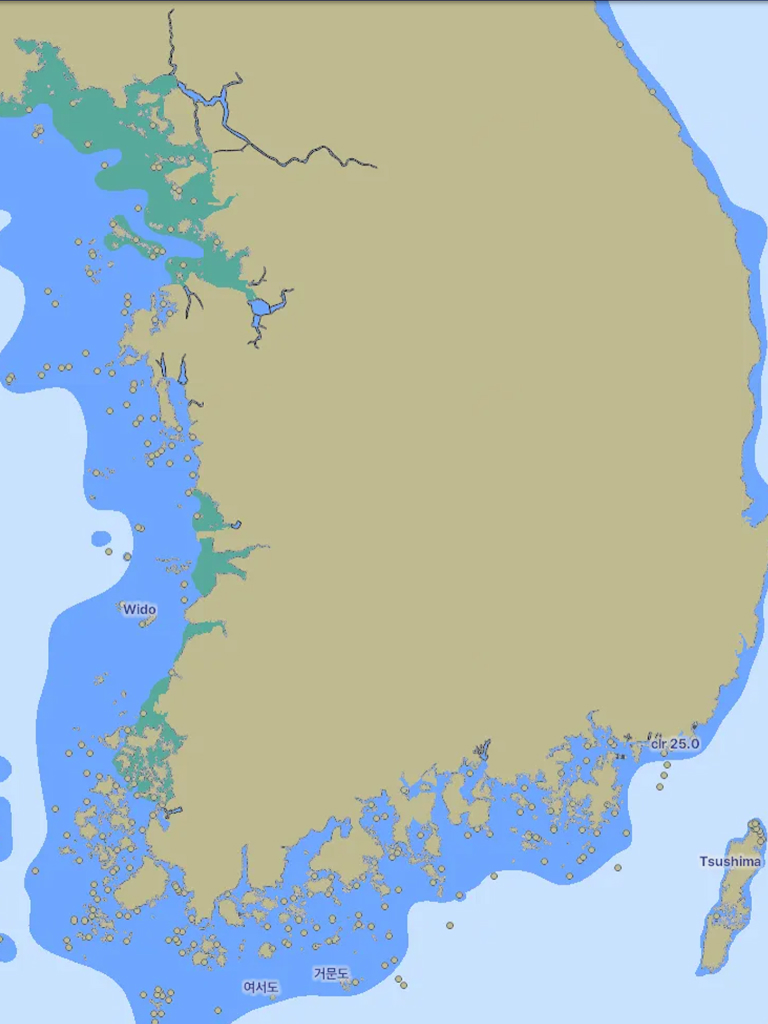
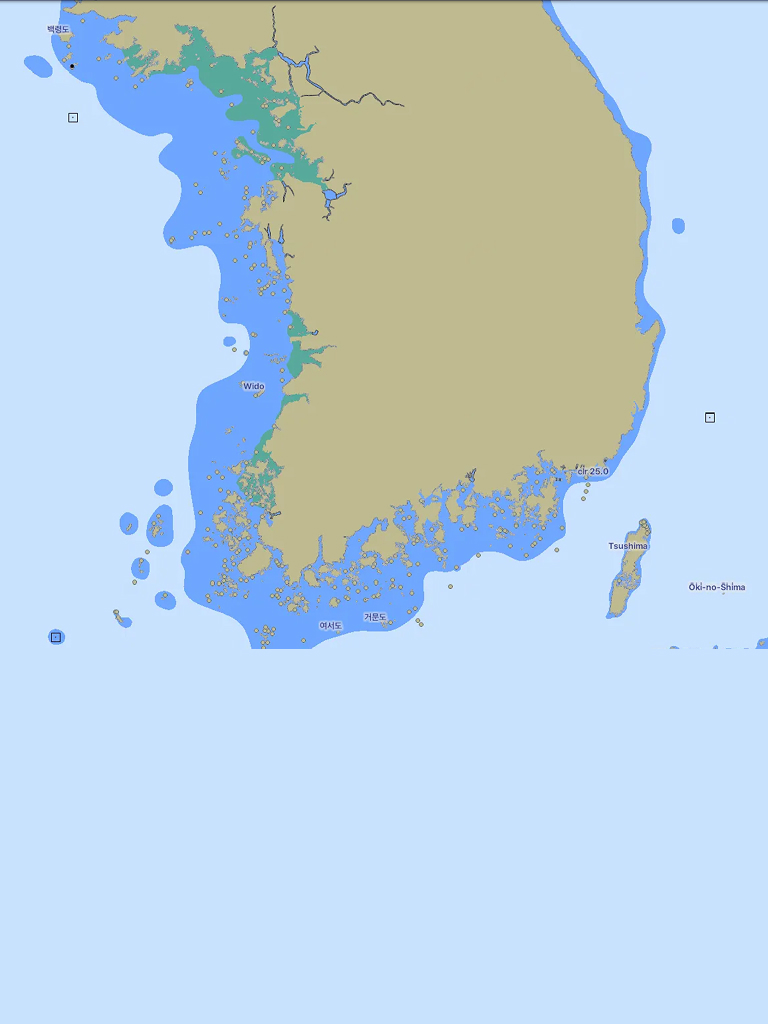
10/23

diff --git a/src/pages/InterPage1440.tsx b/src/pages/InterPage1440.tsx
@@ -31,7 +31,7 @@ const InterPage1440: React.FC<InterPage1440Props> = ({
   const [windowWidth, setWindowWidth] = useState(window.innerWidth);
   const [isSlideMenuOpen, setIsSlideMenuOpen] = useState(false);
   const [mapIcons, setMapIcons] = useState<{ top: string; left: string; label?: string }[]>([]);
-  const [mapImage, setMapImage] = useState('/mpc-react/assets/default-map.jpg');
+  const [mapImage, setMapImage] = useState('/mpc-react/assets/map_03.jpg');
   
 
 
@@ -105,7 +105,7 @@ const InterPage1440: React.FC<InterPage1440Props> = ({
           <RightTopMenu
           mapImage={mapImage}
           setMapImage={setMapImage}
-          defaultMap="/mpc-react/assets/default-map.jpg"
+          defaultMap="/mpc-react/assets/map_03.jpg"
           />
         </Container>
 
@@ -166,30 +166,9 @@ const InterPage1440: React.FC<InterPage1440Props> = ({
               )}
 
       </Navbar>
-      {/* 지도 영역 */}
-      <div className="map-container"
 
-        style={{
-          display: 'flex',
-          justifyContent: 'center',
-          alignItems: 'center', 
-          width: '100%',
-          height: '100vh',
-          overflow: 'hidden', 
-          
-        }}
-      >
-
-      <img
-      src={mapImage}
-      alt="map"
-      style={{
-        minWidth: '100%',
-        minHeight: '100%',
-        objectFit: 'cover',  
-        objectPosition: 'center',
-      }}
-  />
+      {/* 아이콘 레이어 */}
+      <div className="map-container">
         <MapWeatherIcon positions={mapIcons} mapImage={mapImage} />
       </div>
     </div>

diff --git a/src/pages/InterPage768.tsx b/src/pages/InterPage768.tsx
@@ -32,8 +32,8 @@ const InterPage768: React.FC<InterPage768Props> = ({
   const [isSlideMenuOpen, setIsSlideMenuOpen] = useState(false);
   const [windowWidth, setWindowWidth] = useState(window.innerWidth);
   const [mapIcons, setMapIcons] = useState<{ top: string; left: string; label?: string }[]>([]);
-  const [mapImage, setMapImage] = useState('/mpc-react/assets/default-map.jpg');
-  const defaultMap = '/mpc-react/assets/default-map.jpg';
+  const [mapImage, setMapImage] = useState('/mpc-react/assets/map_03.jpg');
+  const defaultMap = '/mpc-react/assets/map_03.jpg';
 
 
   useEffect(() => {
@@ -137,30 +137,11 @@ const InterPage768: React.FC<InterPage768Props> = ({
           />
           )}
 
-          {/* 지도 영역 */}
-          <div className="map-container"
-            style={{
-            display: 'flex',
-            justifyContent: 'center',
-            alignItems: 'center', 
-            width: '100%',
-            height: '100vh',
-            overflow: 'hidden',
-          }}
-          >
-
-          <img
-          src={mapImage}
-          alt="map"
-          style={{
-            minWidth: '100%',
-            minHeight: '100%',
-            objectFit: 'cover', 
-            objectPosition: 'center',
-          }}
-        />
-            <MapWeatherIcon positions={mapIcons} mapImage={mapImage} />
-          </div>
+         
+      {/* 아이콘 레이어 */}
+      <div className="map-container">
+        <MapWeatherIcon positions={mapIcons} mapImage={mapImage} />
+      </div>
     </div>
   );
 };

diff --git a/src/Styles/common_Main.scss b/src/Styles/common_Main.scss
@@ -213,6 +213,7 @@ body {
   display: flex;
   flex-direction: column;
   align-items: center;
+  z-index: 10;
 
   .location-icon {
     position: absolute;
@@ -1013,7 +1014,7 @@ body {
 .custom-dropdown-menu {
   background-color: #fff;
   border-radius: 999px !important;
-  // box-shadow: 0 4px 10px rgba(0, 0, 0, 0.15);
+  box-shadow: 0 4px 10px rgba(0, 0, 0, 0.15);
   border: none;
   width: auto;
   min-width: auto;
@@ -1244,8 +1245,8 @@ body {
   overflow-x: auto;
 
   &.scroll-x {
-    overflow-x: auto; // 가로 스크롤 허용
-    -webkit-overflow-scrolling: touch; // 모바일 부드럽게
+    overflow-x: auto; 
+    -webkit-overflow-scrolling: touch; 
   }
 }
 
@@ -1277,7 +1278,7 @@ body {
     background: #fff;
     border-top-left-radius: 16px;
     border-top-right-radius: 16px;
-    // box-shadow: 0 -2px 10px rgba(0, 0, 0, 0.15);
+    box-shadow: 0 -2px 10px rgba(0, 0, 0, 0.15);
     z-index: 1050;
     flex-direction: column;
     display: flex;
@@ -1293,7 +1294,7 @@ body {
 
     .sheet-handle {
       position: absolute;
-      top: 8px; /* 위쪽에 살짝 띄움 */
+      top: 8px; 
       left: 50%;
       transform: translateX(-50%);
       width: 40px;

diff --git a/src/pages/RightQuickMenu1440.tsx b/src/pages/RightQuickMenu1440.tsx
@@ -9,7 +9,7 @@ import Modal04 from './Modal04';
 
 type RightQuickMenu1440Props = {
   mapImage: string;
-  setMapImage: React.Dispatch<React.SetStateAction<string>>; // 부모에서 지도 상태 변경
+  setMapImage: React.Dispatch<React.SetStateAction<string>>;
   defaultMap: string; 
 };
 
@@ -17,7 +17,7 @@ const RightQuickMenu1440: React.FC<RightQuickMenu1440Props> = ({ mapImage, setMa
   const [isProfileDropdownOpen, setIsProfileDropdownOpen] = useState(false);
   const [showModal03, setShowModal03] = useState(false);
   const [showModal04, setShowModal04] = useState(false);
-  const s57Map = '/mpc-react/assets/s-57-map-1440.jpg';
+  const s57Map = '/mpc-react/assets/s-57-map-768.jpg';
 
    const handleS57Click = () => {
   setMapImage(mapImage === s57Map ? defaultMap : s57Map);

diff --git a/src/pages/LeftMainMenu.tsx b/src/pages/LeftMainMenu.tsx
@@ -87,11 +87,7 @@ const dropdownRef = useRef<HTMLDivElement>(null);
 
   const fixedPositions = [
   { top: '100%', left: '8%', transform: 'translate(-50%, -50%)' },
-  { top: '120%', left: '15%', transform: 'translate(-50%, -50%)' },
-  { top: '128%', left: '18%', transform: 'translate(-50%, -50%)' },
-  { top: '160%', left: '18%', transform: 'translate(-50%, -50%)' },
-  { top: '200%', left: '13%', transform: 'translate(-50%, -50%)' },
-  { top: '208%', left: '7%', transform: 'translate(-50%, -50%)' },
+  { top: '200%', left: '15%', transform: 'translate(-50%, -50%)' },
   ];
 
   // 체크박스 클릭 시 아이콘 표시

diff --git a/src/pages/RightQuickMenu.tsx b/src/pages/RightQuickMenu.tsx
@@ -15,7 +15,7 @@ type RightQuickMenuProps = {
 const RightQuickMenu: React.FC<RightQuickMenuProps> = ({ mapImage, setMapImage, defaultMap }) => {
   const [showModal03, setShowModal03] = useState(false);
   const [showModal04, setShowModal04] = useState(false);
-  const s57Map = '/mpc-react/assets/s-57-map.jpg';
+  const s57Map = '/mpc-react/assets/s-57-map-1440.jpg';
 
  const handleS57Click = () => {
   setMapImage(mapImage === s57Map ? defaultMap : s57Map);
